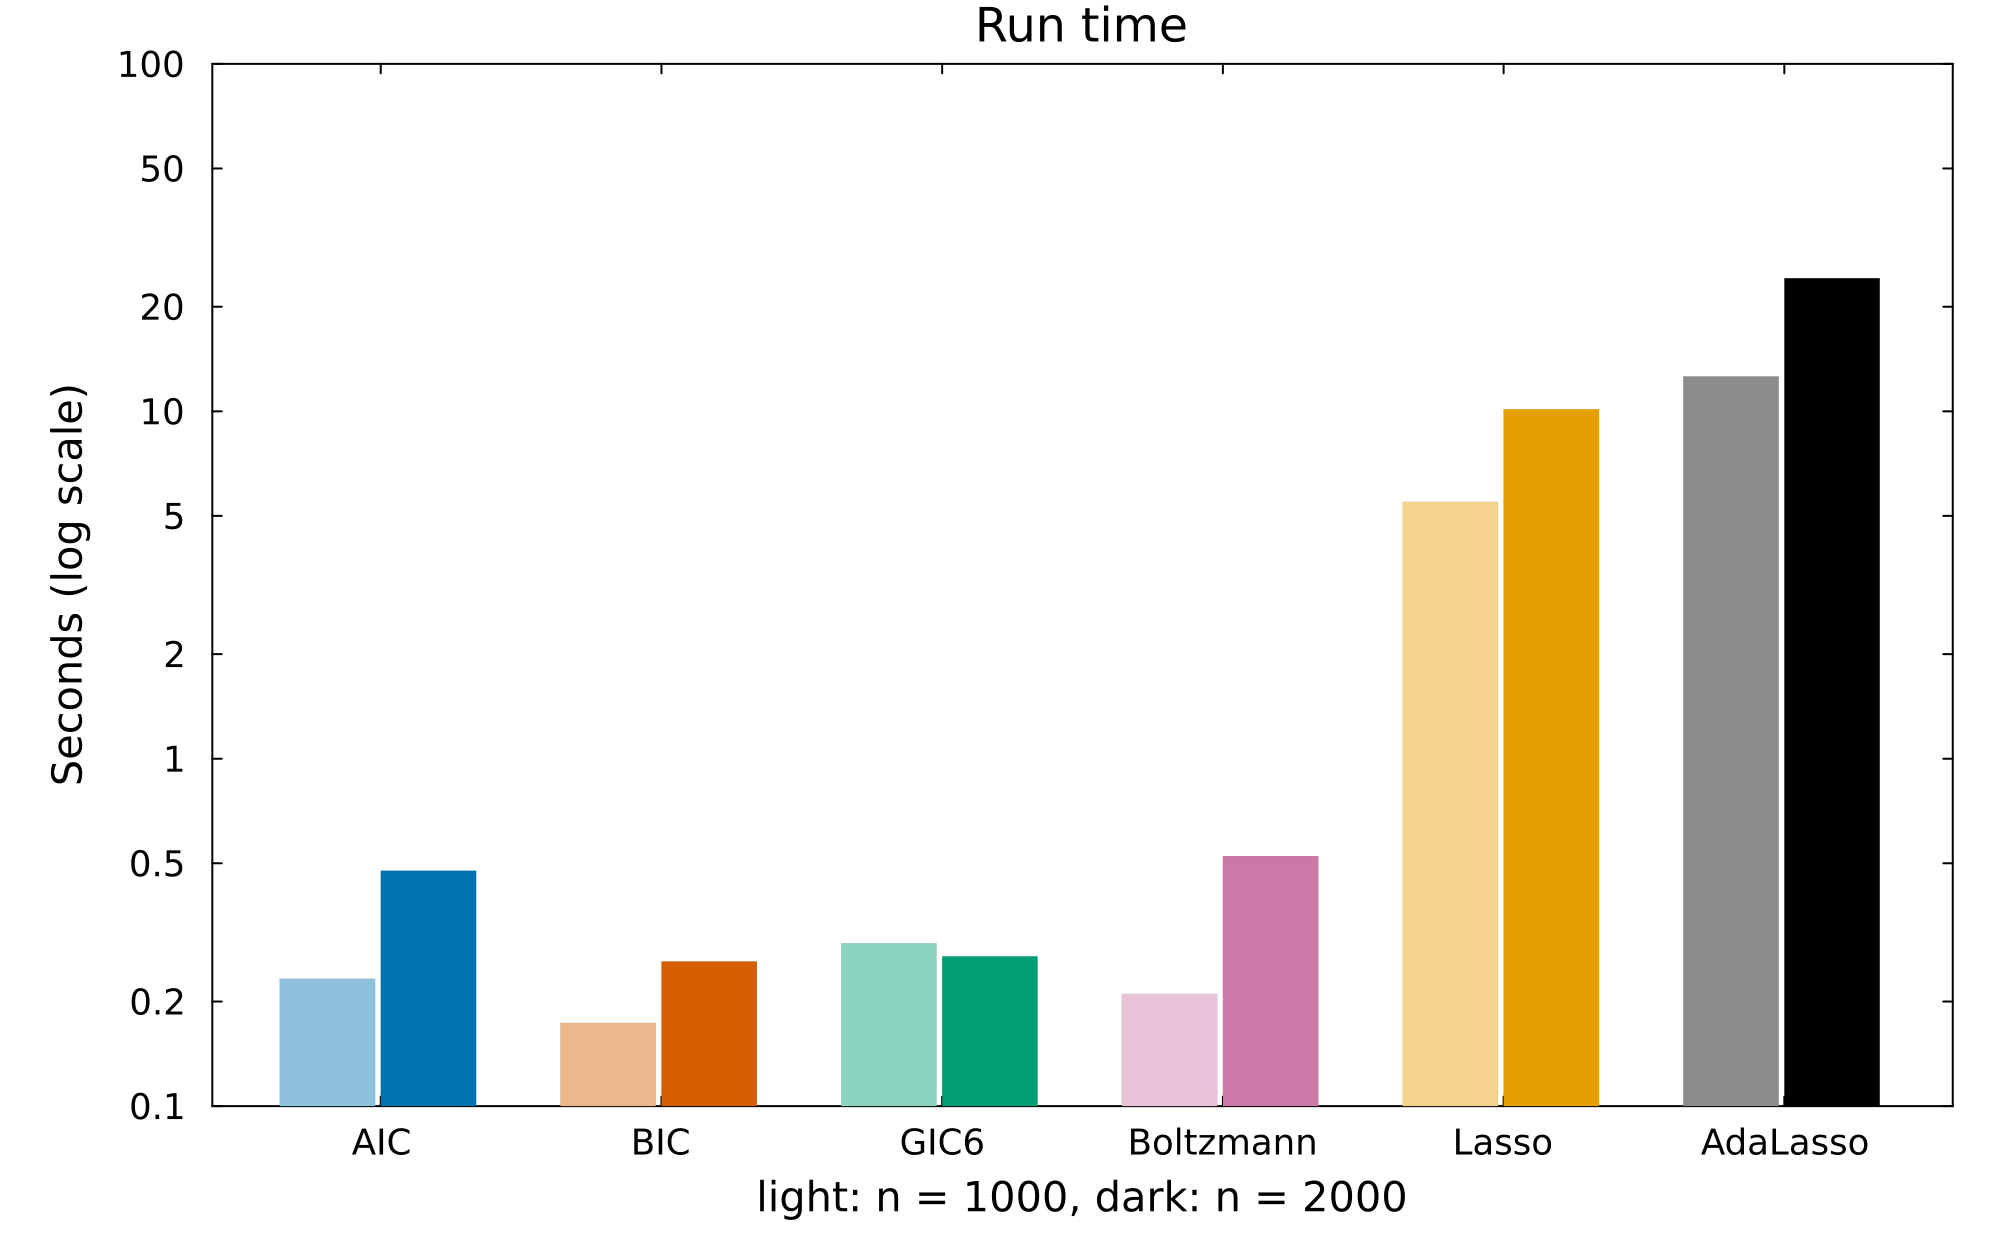
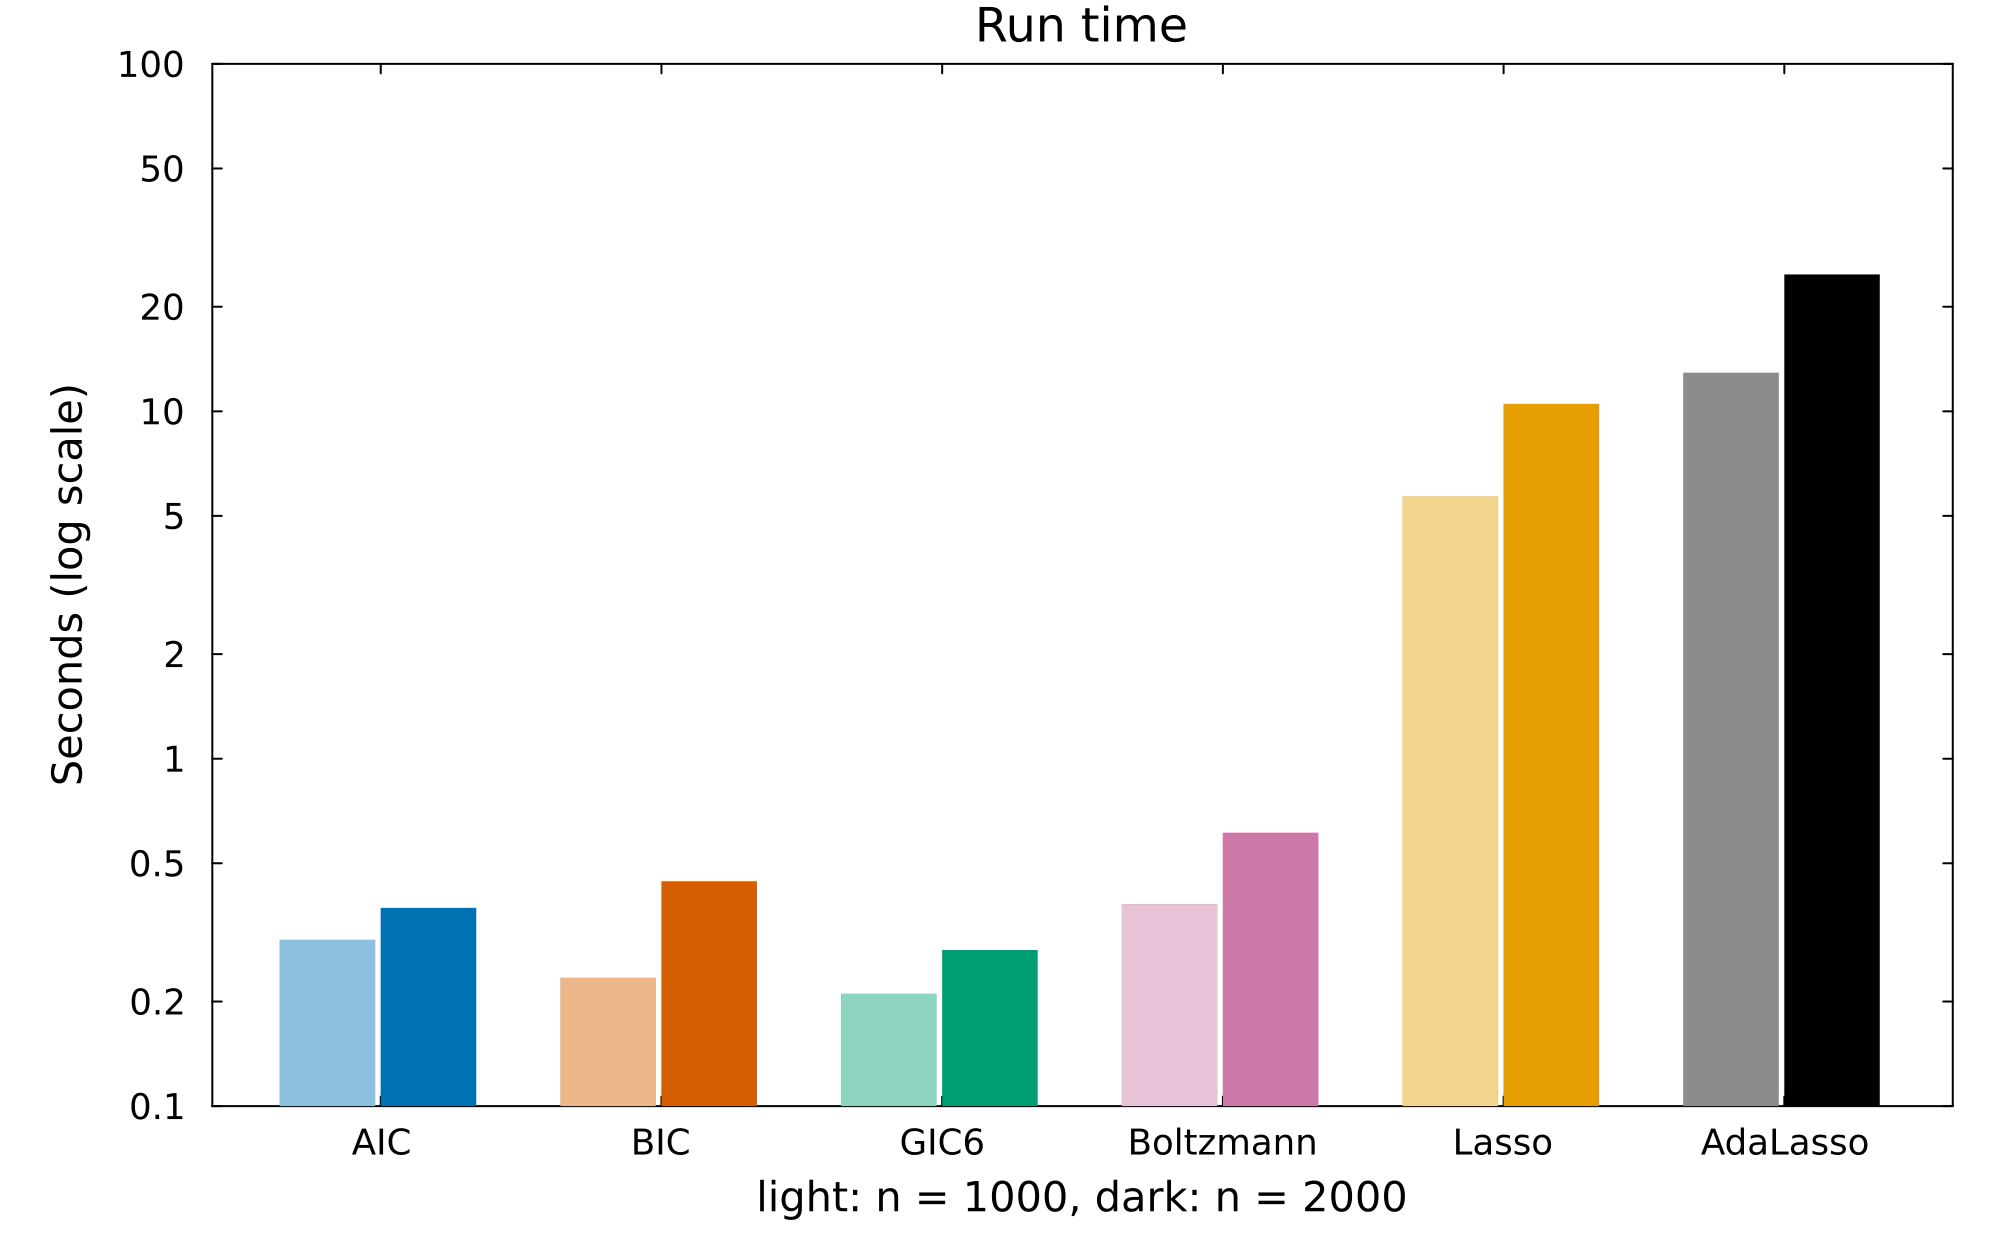
Figures: say which line type is which sample size in the x-axis label

diff --git a/README.md b/README.md
@@ -338,18 +338,18 @@ Y = LP_to_Y(X, beta, "Normal"; std = sqrt(sum(abs2, beta) / 0.71))
 fits = compare_criteria(X, Y, 1:p, p; Nsim = 5)
 selection_table(fits, true_cols)
 #>                  size false_pos false_neg seconds
-#> n1000 AIC         119       114         0    0.32
-#> n1000 BIC          10         5         0    0.17
-#> n1000 GIC6          5         0         0    0.15
-#> n1000 Boltzmann     5         0         0    0.24
-#> n1000 Lasso        11         6         0     2.1
-#> n1000 AdaLasso     44        39         0    4.81
-#> n2000 AIC          97        92         0    0.31
-#> n2000 BIC          10         5         0    0.34
-#> n2000 GIC6          5         0         0    0.23
-#> n2000 Boltzmann     7         2         0    0.32
-#> n2000 Lasso        23        18         0    2.81
-#> n2000 AdaLasso     39        34         0    7.89
+#> n1000 AIC         119       114         0    0.41
+#> n1000 BIC          10         5         0    0.29
+#> n1000 GIC6          5         0         0    0.26
+#> n1000 Boltzmann     5         0         0    0.31
+#> n1000 Lasso        11         6         0    2.22
+#> n1000 AdaLasso     44        39         0    4.97
+#> n2000 AIC          97        92         0    0.39
+#> n2000 BIC          10         5         0    0.44
+#> n2000 GIC6          5         0         0    0.28
+#> n2000 Boltzmann     7         2         0    0.42
+#> n2000 Lasso        23        18         0    2.98
+#> n2000 AdaLasso     39        34         0    7.99
 ```
 
 <p align="center"><img src="docs/figures/README-linear-criterion.png" alt="Criterion along the search, linear model with p = 500" width="85%"></p>
@@ -379,18 +379,18 @@ true_union = sort(unique(reduce(vcat, true_by_response)))
 fits = compare_criteria(X, Y_multi, 1:p, p; Nsim = 5, lasso_family = MvNormal())
 selection_table(fits, true_union)
 #>                  size false_pos false_neg seconds
-#> n1000 AIC          93        69         1    0.23
-#> n1000 BIC          20         0         5    0.17
-#> n1000 GIC6         20         0         5    0.29
-#> n1000 Boltzmann    84        63         4    0.21
-#> n1000 Lasso       132       107         0    5.48
-#> n1000 AdaLasso     24         2         3    12.6
-#> n2000 AIC          76        51         0    0.48
-#> n2000 BIC          22         0         3    0.26
-#> n2000 GIC6         20         0         5    0.27
-#> n2000 Boltzmann   133       112         4    0.52
-#> n2000 Lasso       131       106         0   10.14
-#> n2000 AdaLasso     54        30         1   24.16
+#> n1000 AIC          93        69         1     0.3
+#> n1000 BIC          20         0         5    0.23
+#> n1000 GIC6         20         0         5    0.21
+#> n1000 Boltzmann    84        63         4    0.38
+#> n1000 Lasso       132       107         0    5.69
+#> n1000 AdaLasso     24         2         3   12.91
+#> n2000 AIC          76        51         0    0.37
+#> n2000 BIC          22         0         3    0.44
+#> n2000 GIC6         20         0         5    0.28
+#> n2000 Boltzmann   133       112         4    0.61
+#> n2000 Lasso       131       106         0    10.5
+#> n2000 AdaLasso     54        30         1   24.76
 ```
 
 <p align="center"><img src="docs/figures/README-multivariate-criterion.png" alt="Criterion along the search, multivariate normal response" width="85%"></p>
@@ -428,17 +428,17 @@ fits = compare_glm(y_pois, y_pois, Poisson(), "Poisson")
 selection_table(fits, true_cols)
 #>                  size false_pos false_neg seconds
 #> n1000 AIC          49        45         1    0.02
-#> n1000 BIC           7         2         0    0.01
-#> n1000 GIC6          5         0         0    0.01
+#> n1000 BIC           7         2         0     0.0
+#> n1000 GIC6          5         0         0     0.0
 #> n1000 Boltzmann    49        46         2    0.02
-#> n1000 Lasso        24        19         0    5.73
-#> n1000 AdaLasso      5         0         0    7.05
+#> n1000 Lasso        24        19         0    5.81
+#> n1000 AdaLasso      5         0         0    7.15
 #> n2000 AIC          49        45         1     0.1
-#> n2000 BIC           6         1         0    0.01
+#> n2000 BIC           6         1         0     0.1
 #> n2000 GIC6          5         0         0    0.01
-#> n2000 Boltzmann    49        48         4    0.03
-#> n2000 Lasso        28        23         0    4.72
-#> n2000 AdaLasso      5         0         0   13.97
+#> n2000 Boltzmann    49        48         4    0.04
+#> n2000 Lasso        28        23         0     4.8
+#> n2000 AdaLasso      5         0         0   13.75
 
 # Coefficients of the GIC6 model for n = 2000, intercept first
 round.(Beta_estimate(y_pois, X[:, last_model(fits.n2000.GIC6)]; family = "Poisson"), digits = 2)
@@ -465,17 +465,17 @@ fits = compare_glm(y_binom, [10 .- y_binom y_binom], Binomial(), "Binomial"; n_t
 selection_table(fits, true_cols)
 #>                  size false_pos false_neg seconds
 #> n1000 AIC          49        46         2    0.01
-#> n1000 BIC          10         5         0    0.02
+#> n1000 BIC          10         5         0     0.0
 #> n1000 GIC6          5         0         0     0.0
 #> n1000 Boltzmann     5         0         0     0.0
-#> n1000 Lasso        43        38         0    3.86
-#> n1000 AdaLasso     46        41         0    7.31
-#> n2000 AIC          49        47         3    0.07
-#> n2000 BIC           8         3         0     0.1
+#> n1000 Lasso        43        38         0    3.66
+#> n1000 AdaLasso     46        41         0    7.34
+#> n2000 AIC          49        47         3    0.03
+#> n2000 BIC           8         3         0    0.08
 #> n2000 GIC6          5         0         0    0.01
 #> n2000 Boltzmann     5         0         0    0.01
-#> n2000 Lasso        42        37         0    4.47
-#> n2000 AdaLasso     77        72         0   13.34
+#> n2000 Lasso        42        37         0    4.43
+#> n2000 AdaLasso     77        72         0   13.38
 ```
 
 <p align="center"><img src="docs/figures/README-binomial-criterion.png" alt="Criterion along the search, binomial response" width="85%"></p>
@@ -499,16 +499,16 @@ selection_table(fits, true_cols)
 #>                  size false_pos false_neg seconds
 #> n1000 AIC          49        46         2    0.01
 #> n1000 BIC           6         1         0    0.01
-#> n1000 GIC6          5         0         0    0.01
-#> n1000 Boltzmann     5         0         0     0.0
-#> n1000 Lasso       101        96         0   13.95
-#> n1000 AdaLasso     64        59         0   12.61
-#> n2000 AIC          49        46         2    0.02
+#> n1000 GIC6          5         0         0     0.0
+#> n1000 Boltzmann     5         0         0    0.01
+#> n1000 Lasso       101        96         0   13.76
+#> n1000 AdaLasso     64        59         0    12.7
+#> n2000 AIC          49        46         2    0.01
 #> n2000 BIC           5         0         0    0.01
 #> n2000 GIC6          5         0         0    0.01
 #> n2000 Boltzmann    14         9         0    0.02
-#> n2000 Lasso        87        82         0   29.04
-#> n2000 AdaLasso     15        10         0   25.03
+#> n2000 Lasso        87        82         0    29.3
+#> n2000 AdaLasso     15        10         0    25.5
 ```
 
 <p align="center"><img src="docs/figures/README-multinomial-criterion.png" alt="Criterion along the search, multinomial response" width="85%"></p>
